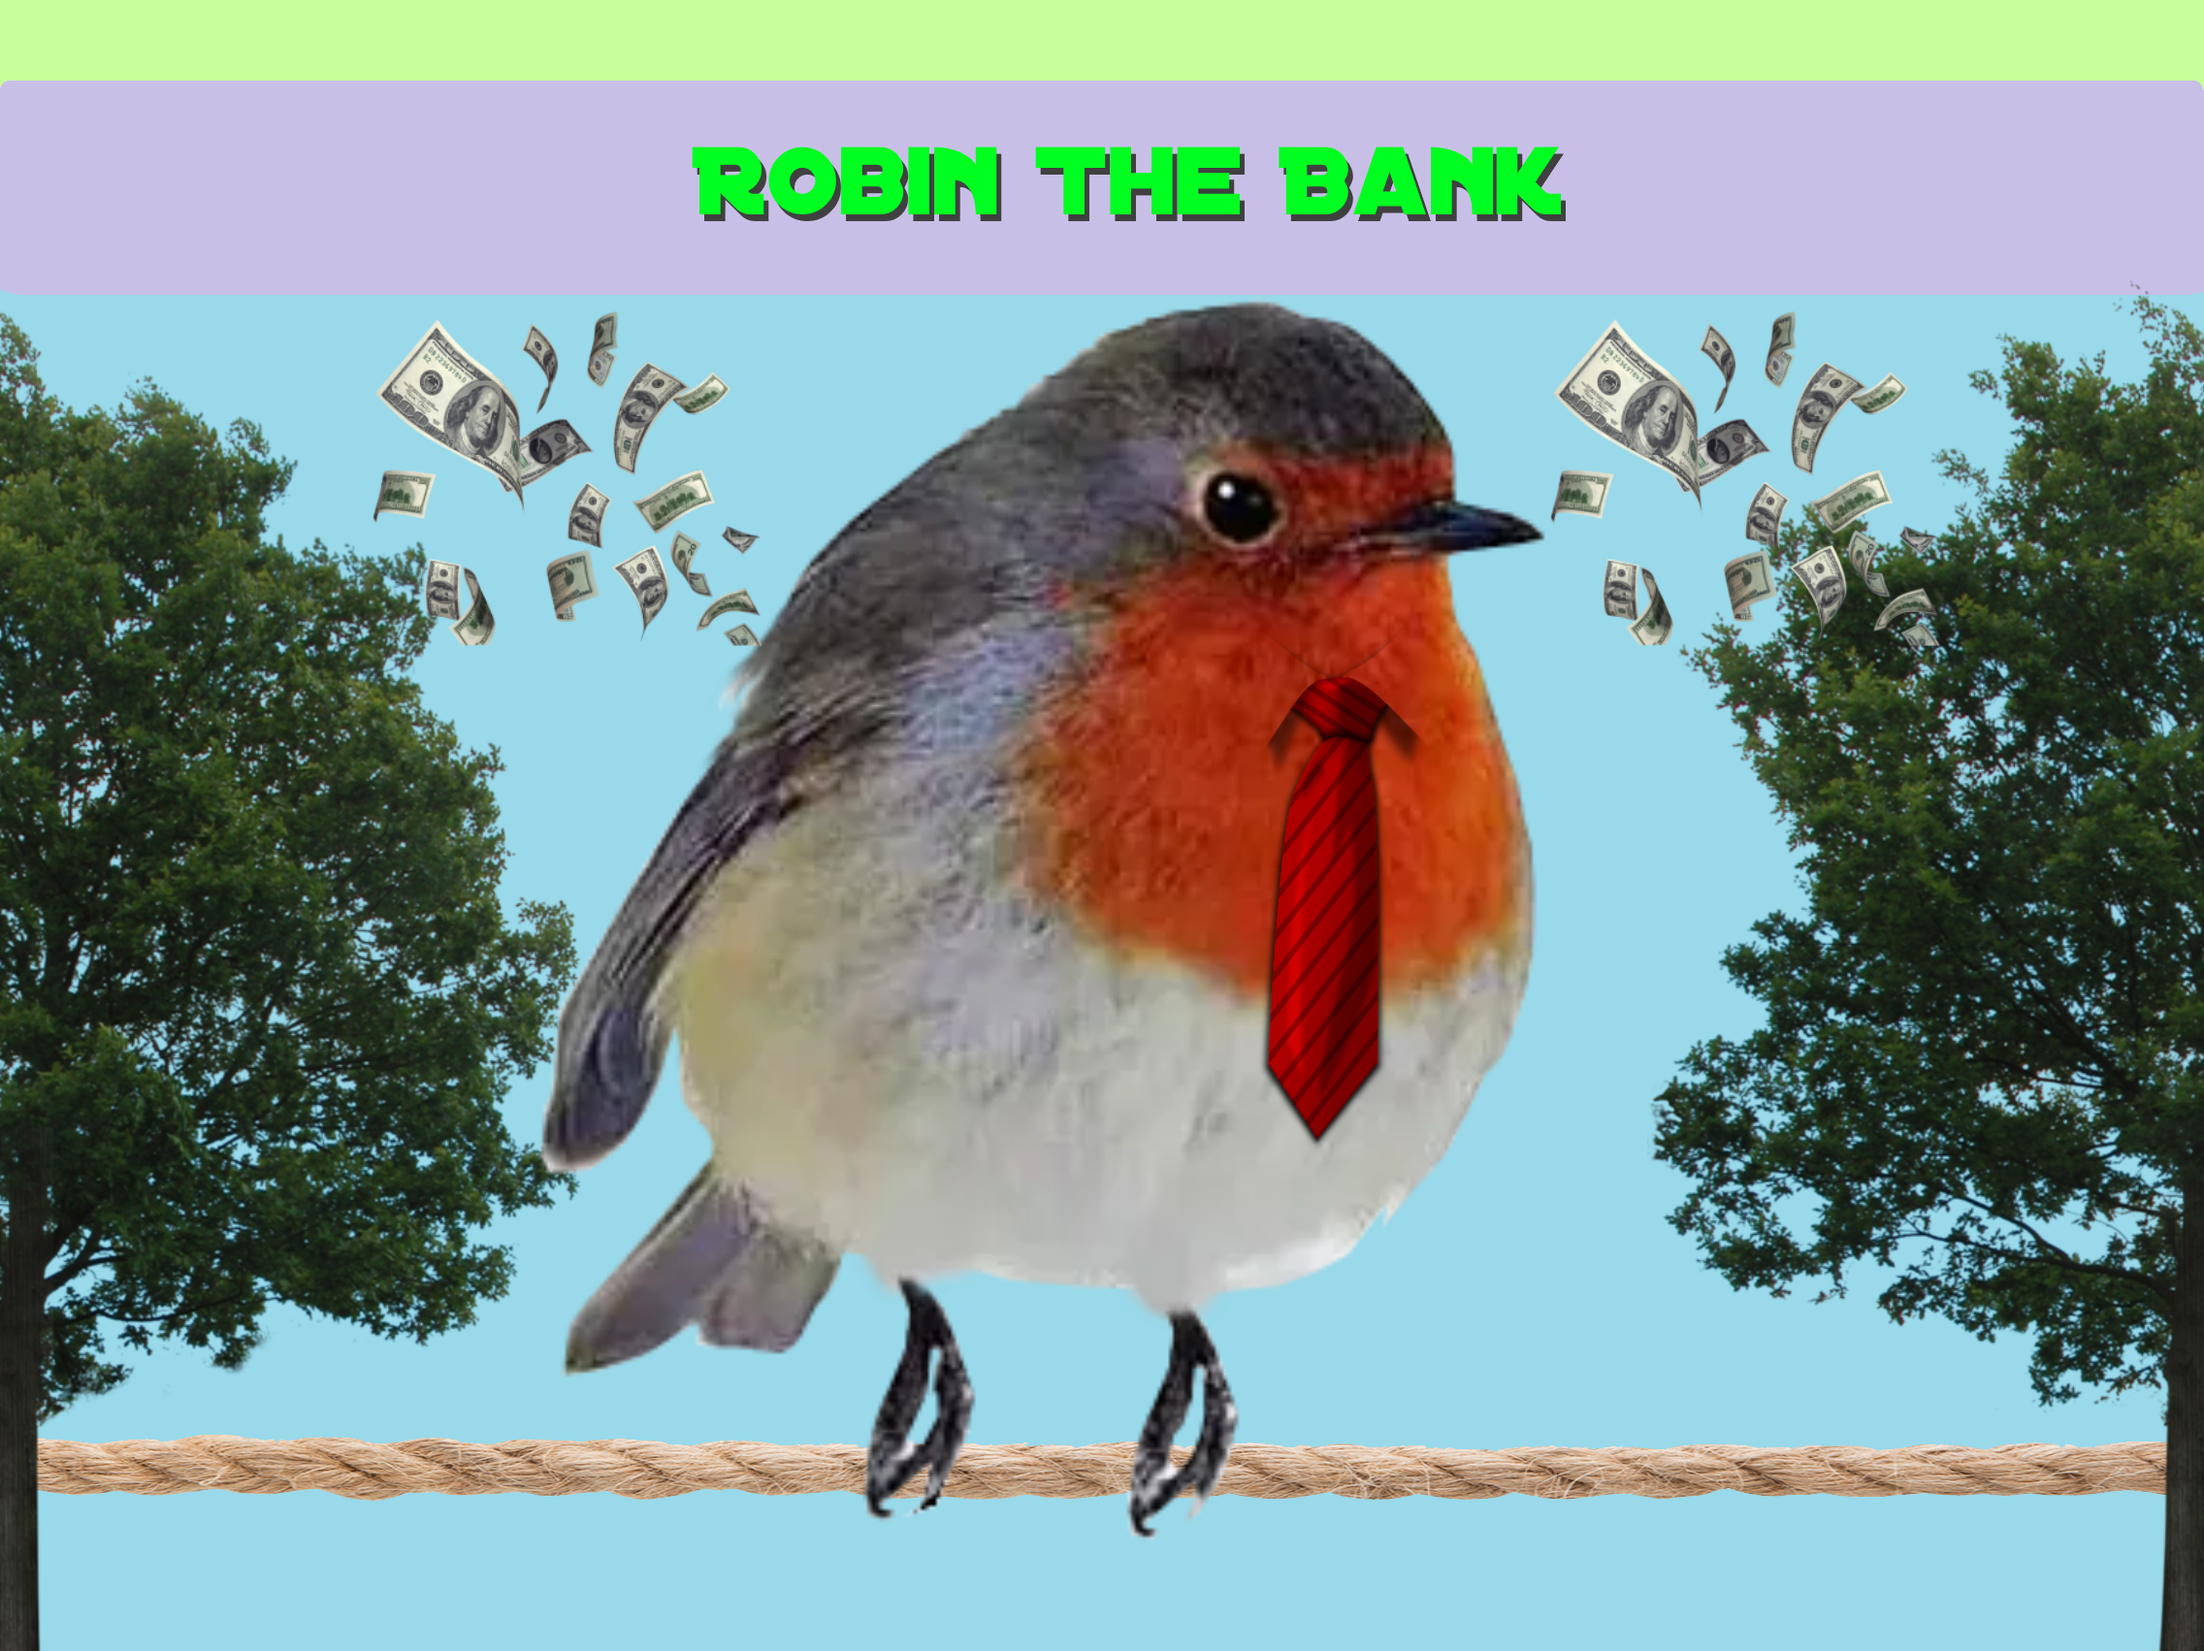
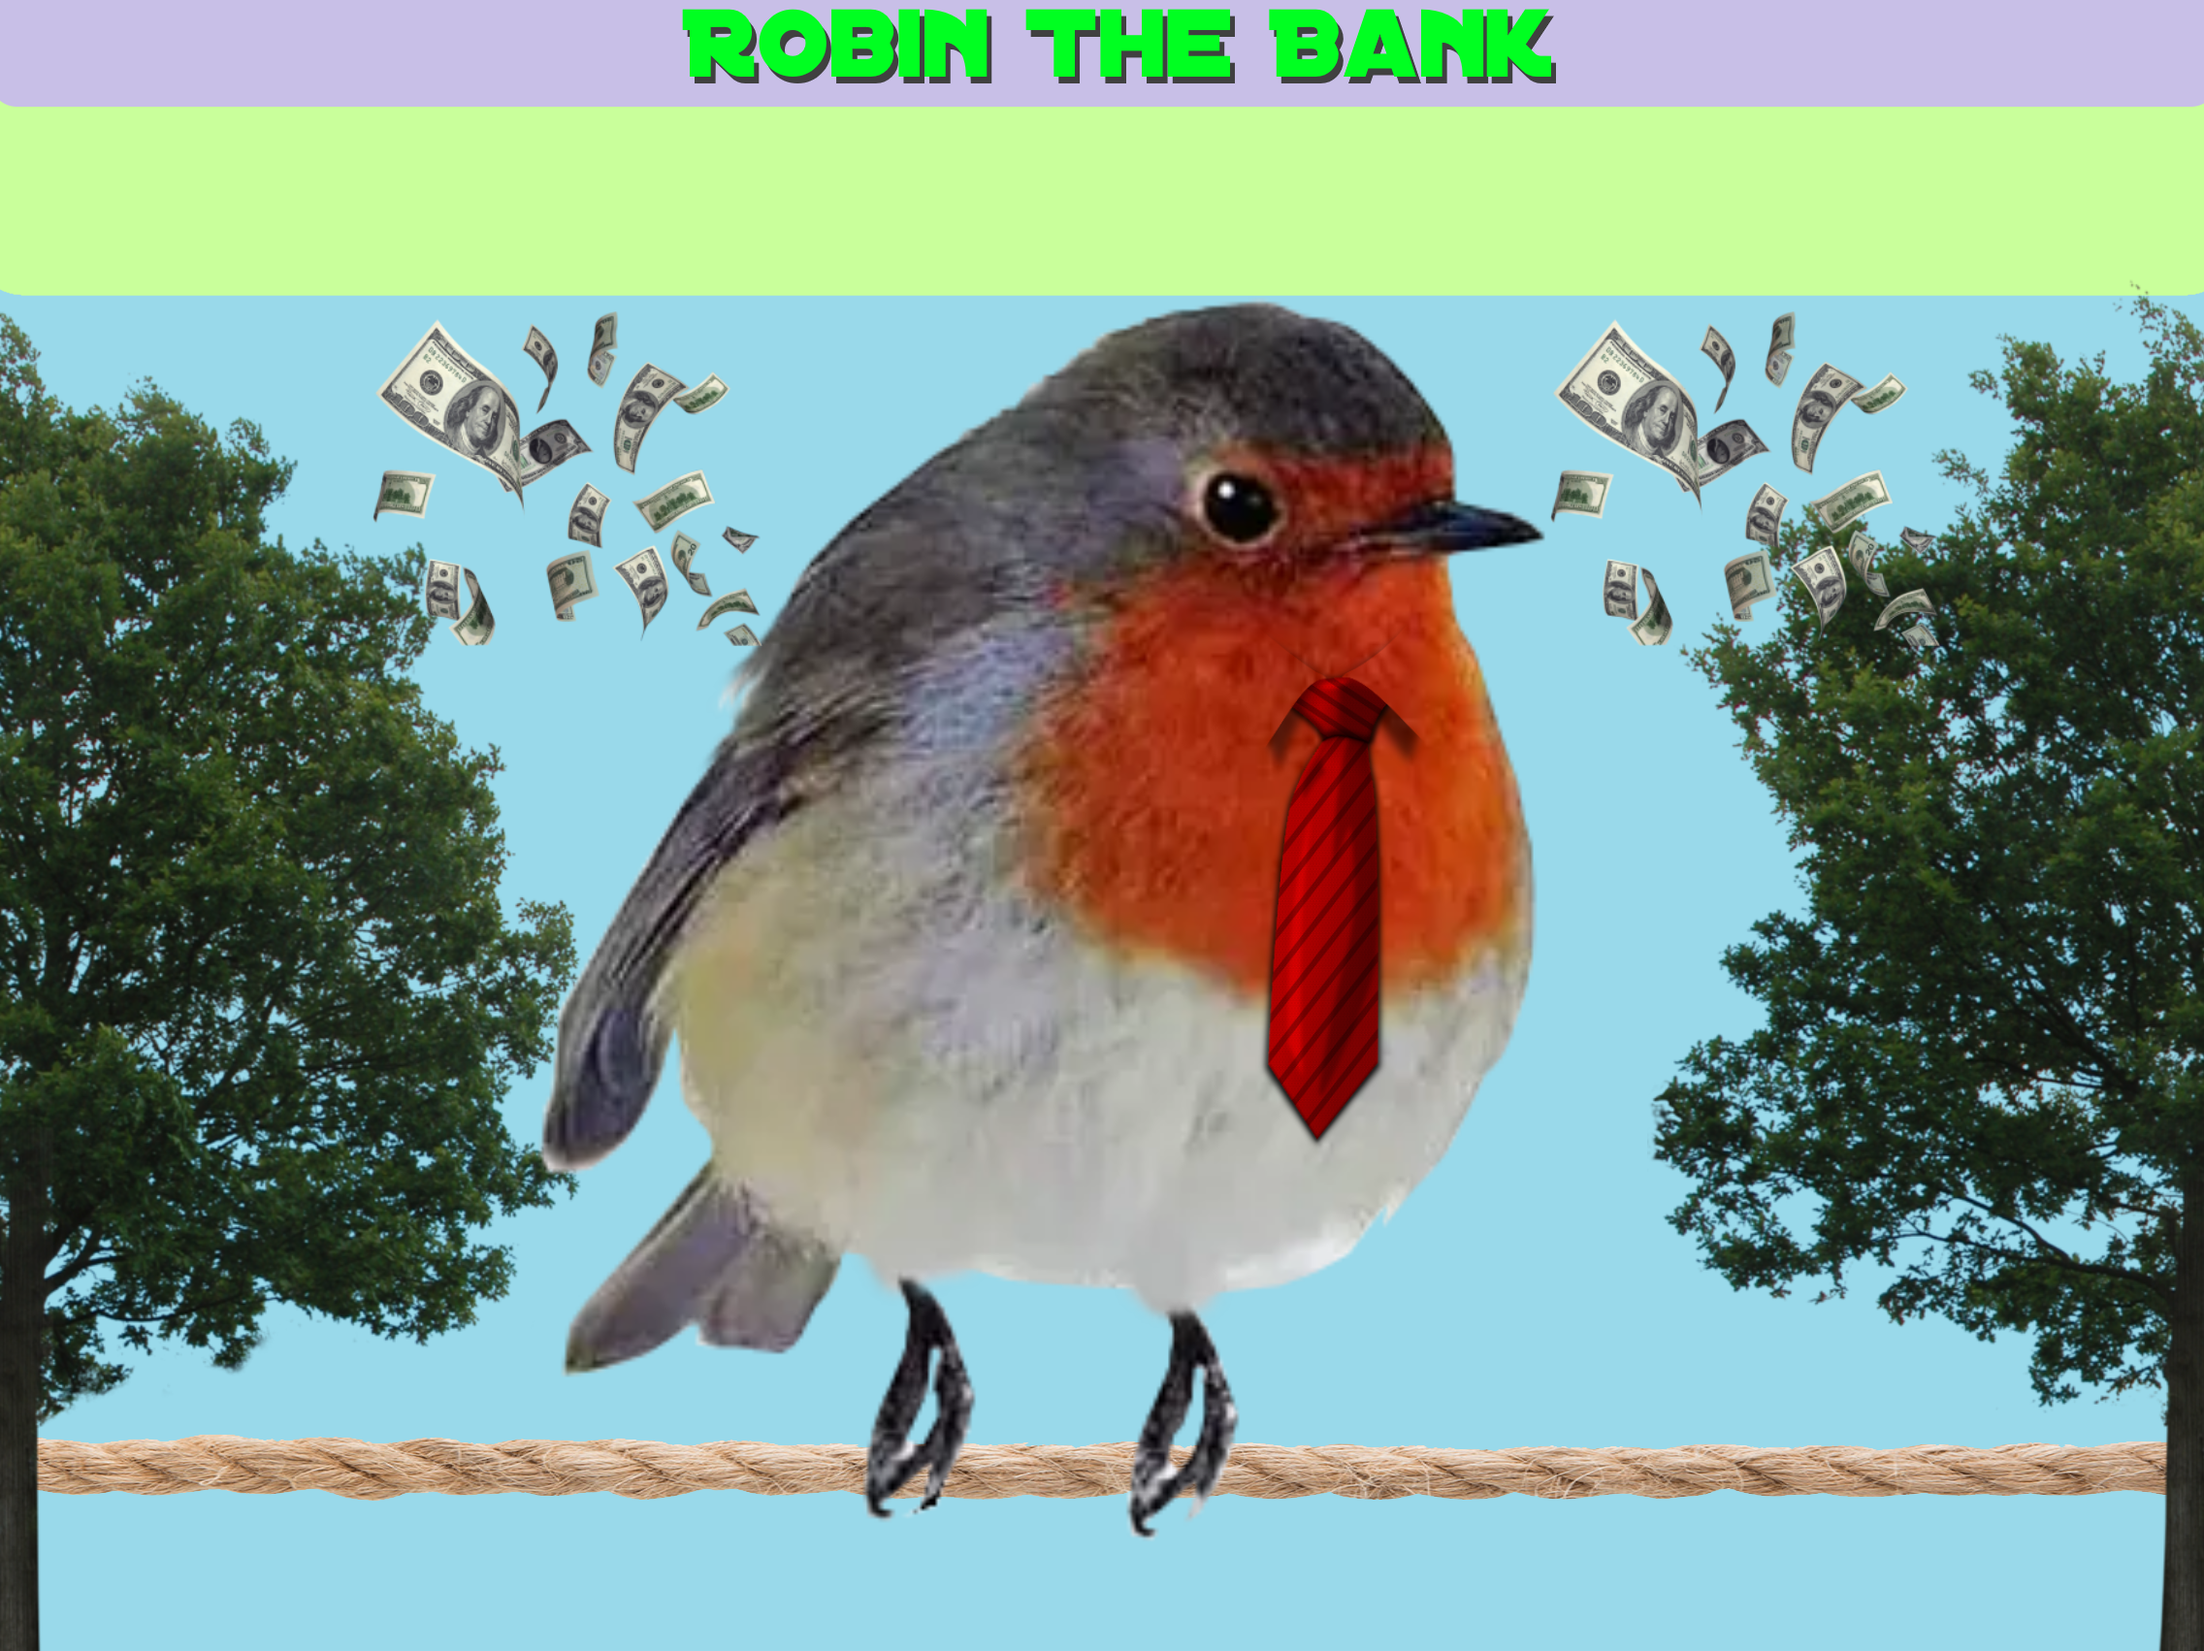
Updated some formatting

Changed region(s): [[0.0, 0.0, 1.0, 0.1868]]

diff --git a/index.html b/index.html
@@ -5,7 +5,7 @@
   </head>
   <body>
 
-    <h1>Online ATM</h1>
+    <h1><span class="textback">Online ATM</span></h1>
     <hr>
 
     <div class="nav_bar">
@@ -14,24 +14,22 @@
       </nav>
     </div>
 
-    <div class="centerTest">
     <div class="login">
-      <label for="login_form" id="title">Log In</label>
+      <label for="login_form" id="title"><span class="textback">Log In</span></label>
+      <br>
       <form class="login_form" action="ATM/loginProcess.php" method="post">
         <label>
-          Username/Email: <input type="text" name="email">
+          <span class="textback">Email:</span><input type="text" name="email">
         </label>
         <label>
-          Password: <input type="password" name="password">
+          <span class="textback">Password:</span><input type="password" name="password">
         </label>
         <input type="submit" value="login">
-          Sign In: <!--need change later; direct to home.html if log in is successfully-->
+          <span class="textback">Sign In:</span> <!--need change later; direct to home.html if log in is successfully-->
           <!-- why is </button> needed? I just want to know why -->
       </form>
       <br>
-      <p>Don't have an account?
-      <a href="ATM/Register.html", id="signUp"> Sign Up! </a></p>
+      <p><span class="textback">Don't have an account? <a href="ATM/Register.html", id="signUp"> Sign Up! </span></a></p>
     </div>
-  </div>
   </body>
 </html>

diff --git a/ATM/home.html b/ATM/home.html
@@ -8,28 +8,27 @@
     <h1><span class="textback">Home</span></h1>
 
   <div class="box">
+    <br><br>
     <div onlineATM-html="homepageTemplete.html"></div>
     <div>
-      <span class="textback">
       <table class="centerTable" id="accounts">
         <tr>
-          <th>Types of Account</th>
-          <th>Balance</th>
+          <th><span class="textback">Types of Account</span></th>
+          <th><span class="textback">Balance</span></th>
         </tr>
         <tr>
-          <td>Checking</td>
-          <td>$XX.XX</td>
+          <td><span class="textback">Checking</span></td>
+          <td><span class="textback">$XX.XX</span></td>
         </tr>
         <tr>
-          <td>Savings 1</td>
-          <td>$XX.XX</td>
+          <td><span class="textback">Savings 1</span></td>
+          <td><span class="textback">$XX.XX</span></td>
         </tr>
         <tr>
-          <td>Checking 2</td>
-          <td>$XX.XX</td>
+          <td><span class="textback">Checking 2</span></td>
+          <td><span class="textback">$XX.XX</span></td>
         </tr>
       </table>
-    </span>
     </div>
   </div>
 

diff --git a/ATM/User Information.html b/ATM/User Information.html
@@ -8,6 +8,7 @@
     <h1>User Info</h1>
 
     <div class="box">
+    <br><br>
     <div onlineATM-html="homepageTemplete.html"></div>
     <div class="acc_info", id="normalText">
       <span style = "font-weight: bold"><span class="textback">Personal Information</span></span> <br>

diff --git a/ATM/atmLogin.html b/ATM/atmLogin.html
@@ -8,6 +8,7 @@
     <h1><span class="textback">Online ATM</span></h1>
     <hr>
 
+    <br><br>
     <div class="nav_bar">
       <nav>
         <a href="index.html"><span class="textback">Home</span></a> |

diff --git a/ATM/NewAccount.html b/ATM/NewAccount.html
@@ -15,6 +15,7 @@ body {
 
     <h1><span class="textback">Accounts Information</span></h1>
 
+    <br><br>
     <div onlineATM-html="homepageTemplete.html"></div>
 
     <div class="NewAccount">

diff --git a/ATM/depositCheck.html b/ATM/depositCheck.html
@@ -7,6 +7,7 @@
   <body>
 
     <h1><span class="textback">Online ATM</span></h1>
+    <br><br>
     <div onlineATM-html="homepageTemplete.html"></div>
 
     <div class="upload">

diff --git a/ATM/atmPage.html b/ATM/atmPage.html
@@ -8,6 +8,7 @@
     <h1><span class="textback">ATM</span></h1>
     <hr>
 
+    <br><br>
     <div onlineATM-html="atmHomeTemplete.html"></div>
 
     <div class="content">

diff --git a/ATM/transfer.html b/ATM/transfer.html
@@ -7,6 +7,7 @@
 
     <h1><span class="textback">Transfer</span></h1>
 
+    <br><br>
     <div onlineATM-html="homepageTemplete.html"></div>
 
     <div class="content">

diff --git a/ATM/withdraw.html b/ATM/withdraw.html
@@ -8,6 +8,7 @@
 
     <h1><span class="textback">Online ATM</span></h1>
 
+    <br><br>
     <div onlineATM-html="homepageTemplete.html"></div>
 
     <center>

diff --git a/ATM/Register.html b/ATM/Register.html
@@ -5,6 +5,7 @@
     <h1><span class="textback">Register</span></h1>
   </head>
   <body>
+  <br><br>
     <div class="nav_bar">
       <nav>
         <br>

diff --git a/ATM/atmHomeTemplete.html b/ATM/atmHomeTemplete.html
@@ -38,6 +38,7 @@
       }
     </style>
   </head>
+  <br><br>
   <div class="nav_bar">
   <body>
     <nav>
